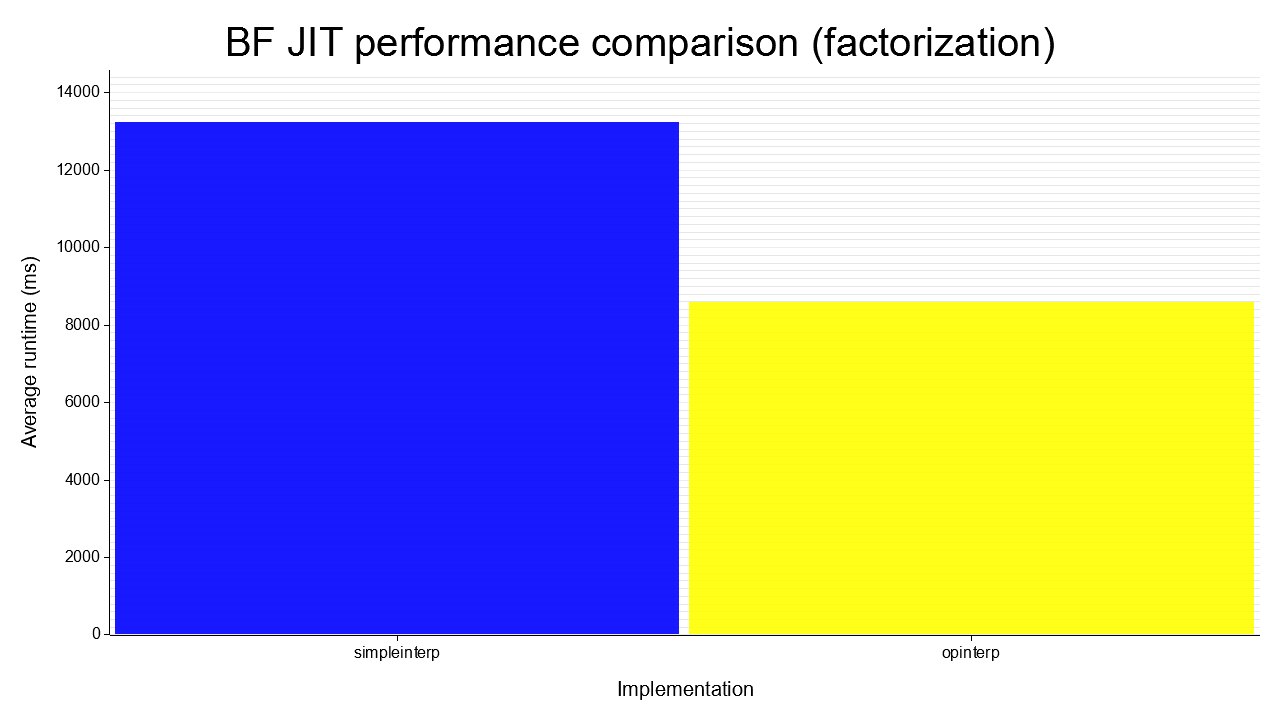
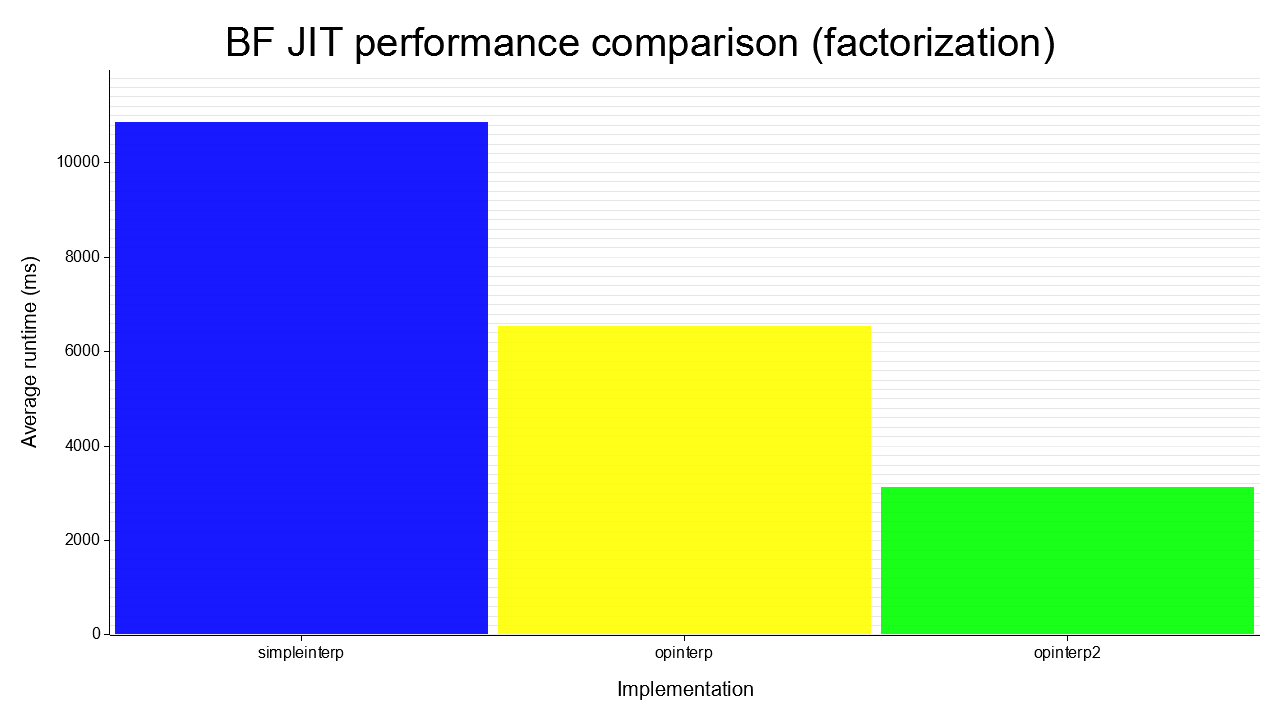
Implement opinterp2

diff --git a/vms/opinterp2/src/parser.rs b/vms/opinterp2/src/parser.rs
@@ -1,0 +1,176 @@
+use util::{BfError, BfResult};
+
+#[derive(Eq, PartialEq)]
+enum OpCode {
+    IncPtr,
+    DecPtr,
+    IncData,
+    DecData,
+    Read,
+    Write,
+    JumpIfZero,
+    JumpIfNotZero,
+}
+
+#[derive(Debug, Eq, PartialEq)]
+pub enum Instruction {
+    IncPtr { count: usize },
+    DecPtr { count: usize },
+    IncData { count: usize },
+    DecData { count: usize },
+    Read { count: usize },
+    Write { count: usize },
+    JumpIfZero { destination: usize },
+    JumpIfNotZero { destination: usize },
+}
+
+impl Instruction {
+    fn set_destination(&mut self, value: usize) {
+        match self {
+            Instruction::JumpIfZero { destination } => *destination = value,
+            Instruction::JumpIfNotZero { destination } => *destination = value,
+            _ => unreachable!(),
+        }
+    }
+}
+
+#[derive(Debug, Eq, PartialEq)]
+pub struct Program {
+    pub instructions: Vec<Instruction>,
+}
+
+pub fn parse(source_code: &str) -> BfResult<Program> {
+    let opcodes = translate_to_opcodes(source_code);
+
+    let mut instructions = vec![];
+
+    let mut pc = 0;
+    let mut open_bracket_stack = vec![];
+    while pc < opcodes.len() {
+        match &opcodes[pc] {
+            OpCode::JumpIfZero => {
+                open_bracket_stack.push(instructions.len());
+                instructions.push(Instruction::JumpIfZero { destination: 0 });
+                pc += 1;
+            }
+            OpCode::JumpIfNotZero => {
+                if let Some(open_bracket_offset) = open_bracket_stack.pop() {
+                    let len = instructions.len();
+                    instructions[open_bracket_offset].set_destination(len);
+                    instructions.push(Instruction::JumpIfNotZero {
+                        destination: open_bracket_offset,
+                    });
+
+                    pc += 1;
+                } else {
+                    return Err(BfError::Bf(format!("unmatched ']' at pc={pc}")));
+                }
+            }
+            opcode => {
+                let start = pc;
+                pc += 1;
+                while pc < opcodes.len() && opcodes[pc] == *opcode {
+                    pc += 1;
+                }
+
+                let count = pc - start;
+                let instruction = match opcode {
+                    OpCode::IncPtr => Instruction::IncPtr { count },
+                    OpCode::DecPtr => Instruction::DecPtr { count },
+                    OpCode::IncData => Instruction::IncData { count },
+                    OpCode::DecData => Instruction::DecData { count },
+                    OpCode::Read => Instruction::Read { count },
+                    OpCode::Write => Instruction::Write { count },
+                    _ => unreachable!(),
+                };
+
+                instructions.push(instruction);
+            }
+        }
+    }
+
+    if !open_bracket_stack.is_empty() {
+        return Err(BfError::Bf("unmatched '['".to_owned()));
+    }
+
+    Ok(Program { instructions })
+}
+
+fn translate_to_opcodes(source_code: &str) -> Vec<OpCode> {
+    let mut opcodes = vec![];
+
+    for c in source_code.chars() {
+        match c {
+            '>' => opcodes.push(OpCode::IncPtr),
+            '<' => opcodes.push(OpCode::DecPtr),
+            '+' => opcodes.push(OpCode::IncData),
+            '-' => opcodes.push(OpCode::DecData),
+            ',' => opcodes.push(OpCode::Read),
+            '.' => opcodes.push(OpCode::Write),
+            '[' => opcodes.push(OpCode::JumpIfZero),
+            ']' => opcodes.push(OpCode::JumpIfNotZero),
+            _ => (),
+        }
+    }
+
+    opcodes
+}
+
+#[cfg(test)]
+mod tests {
+    use {
+        super::{parse, Instruction, Program},
+        util::BfError,
+    };
+
+    #[test]
+    fn parse_test() {
+        let program = parse(">a<+bcde-,_.[]_1234567890か").unwrap();
+        assert_eq!(
+            program,
+            Program {
+                instructions: vec![
+                    Instruction::IncPtr { count: 1 },
+                    Instruction::DecPtr { count: 1 },
+                    Instruction::IncData { count: 1 },
+                    Instruction::DecData { count: 1 },
+                    Instruction::Read { count: 1 },
+                    Instruction::Write { count: 1 },
+                    Instruction::JumpIfZero { destination: 7 },
+                    Instruction::JumpIfNotZero { destination: 6 },
+                ],
+            }
+        );
+    }
+
+    #[test]
+    fn parse_count_test() {
+        let program = parse(">>[>>><<+---,,],..").unwrap();
+        assert_eq!(
+            program,
+            Program {
+                instructions: vec![
+                    Instruction::IncPtr { count: 2 },
+                    Instruction::JumpIfZero { destination: 7 },
+                    Instruction::IncPtr { count: 3 },
+                    Instruction::DecPtr { count: 2 },
+                    Instruction::IncData { count: 1 },
+                    Instruction::DecData { count: 3 },
+                    Instruction::Read { count: 2 },
+                    Instruction::JumpIfNotZero { destination: 1 },
+                    Instruction::Read { count: 1 },
+                    Instruction::Write { count: 2 },
+                ],
+            }
+        );
+    }
+
+    #[test]
+    fn parse_error_test() {
+        let err = parse("..[...").unwrap_err();
+        assert_eq!(err, BfError::Bf("unmatched '['".to_owned()));
+
+        let err = parse("..]...").unwrap_err();
+        assert_eq!(err, BfError::Bf("unmatched ']' at pc=2".to_owned()));
+    }
+}

diff --git a/vms/opinterp2/src/vm.rs b/vms/opinterp2/src/vm.rs
@@ -1,0 +1,100 @@
+use {
+    crate::parser::{Instruction, Program},
+    std::io::{Read, Write},
+    util::BfResult,
+};
+
+const MEMORY_SIZE: usize = 30000;
+
+pub fn run(program: Program, stdin: &mut dyn Read, stdout: &mut dyn Write) -> BfResult<()> {
+    let mut memory: [u8; MEMORY_SIZE] = [0; MEMORY_SIZE];
+    let mut pc = 0;
+    let mut data_pointer = 0;
+
+    while pc < program.instructions.len() {
+        match program.instructions[pc] {
+            Instruction::IncPtr { count } => data_pointer += count,
+            Instruction::DecPtr { count } => data_pointer -= count,
+            Instruction::IncData { count } => {
+                let mut val = memory[data_pointer];
+                for _ in 0..count {
+                    val = val.wrapping_add(1)
+                }
+                memory[data_pointer] = val;
+            }
+            Instruction::DecData { count } => {
+                let mut val = memory[data_pointer];
+                for _ in 0..count {
+                    val = val.wrapping_sub(1)
+                }
+                memory[data_pointer] = val;
+            }
+            Instruction::Read { count } => {
+                for _ in 0..count {
+                    memory[data_pointer] = read(stdin)?
+                }
+            }
+            Instruction::Write { count } => {
+                for _ in 0..count {
+                    write(stdout, memory[data_pointer])?
+                }
+            }
+            Instruction::JumpIfZero { destination } => {
+                pc = jump(
+                    true, /*eq_zero*/
+                    &memory,
+                    data_pointer,
+                    destination,
+                    pc,
+                )
+            }
+            Instruction::JumpIfNotZero { destination } => {
+                pc = jump(
+                    false, /*eq_zero*/
+                    &memory,
+                    data_pointer,
+                    destination,
+                    pc,
+                )
+            }
+        }
+
+        pc += 1;
+    }
+
+    Ok(())
+}
+
+fn read(stdin: &mut dyn Read) -> BfResult<u8> {
+    let mut c = [0; 1];
+    stdin.read_exact(&mut c)?;
+
+    Ok(c[0])
+}
+
+fn write(stdout: &mut dyn Write, byte: u8) -> BfResult<()> {
+    stdout.write_all(&[byte])?;
+    stdout.flush()?;
+
+    Ok(())
+}
+
+fn jump(
+    eq_zero: bool,
+    memory: &[u8; MEMORY_SIZE],
+    data_pointer: usize,
+    destination: usize,
+    pc: usize,
+) -> usize {
+    let cond = if eq_zero {
+        |a, b| a == b
+    } else {
+        |a, b| a != b
+    };
+
+    if cond(memory[data_pointer], 0) {
+        destination
+    } else {
+        pc
+    }
+}

diff --git a/bench/src/lib.rs b/bench/src/lib.rs
@@ -5,7 +5,7 @@ use {
         coord::ranged1d::{IntoSegmentedCoord, SegmentValue},
         drawing::IntoDrawingArea,
         series::Histogram,
-        style::{Color, BLUE, WHITE, YELLOW},
+        style::{Color, BLUE, GREEN, WHITE, YELLOW},
     },
     std::{fs, time::Instant},
     util::{BfError, RunFunction},
@@ -55,6 +55,7 @@ fn graph_results_for_file(
     let perf_millis = [
         ImplInfo::new("simpleinterp", &simpleinterp::run, source_code, input)?,
         ImplInfo::new("opinterp", &opinterp::run, source_code, input)?,
+        ImplInfo::new("opinterp2", &opinterp2::run, source_code, input)?,
     ];
 
     create_graph(title, short_title, perf_millis)?;
@@ -131,6 +132,7 @@ fn create_graph<const N: usize>(
             .style_func(|value, _millis| match **segmented_value_to_inner(value) {
                 "simpleinterp" => BLUE.mix(0.9).filled(),
                 "opinterp" => YELLOW.mix(0.9).filled(),
+                "opinterp2" => GREEN.mix(0.9).filled(),
                 _ => unreachable!(),
             })
             .data(perf_millis.iter().map(|x| (&x.name, x.millis))),

diff --git a/util/src/error.rs b/util/src/error.rs
@@ -3,12 +3,12 @@ use {
     std::{error::Error, fmt, io, num::TryFromIntError},
 };
 
-#[derive(Debug)]
+#[derive(Debug, Eq, PartialEq)]
 pub enum BfError {
     Bf(String),
     DrawingArea(String),
     TryFromInt(TryFromIntError),
-    Io(io::Error),
+    Io(String),
 }
 
 impl fmt::Display for BfError {
@@ -17,7 +17,7 @@ impl fmt::Display for BfError {
             Self::Bf(s) => write!(f, "{s}"),
             Self::DrawingArea(s) => write!(f, "{s}"),
             Self::TryFromInt(err) => write!(f, "{err}"),
-            Self::Io(err) => write!(f, "{err}"),
+            Self::Io(s) => write!(f, "{s}"),
         }
     }
 }
@@ -41,7 +41,7 @@ impl From<TryFromIntError> for BfError {
 
 impl From<io::Error> for BfError {
     fn from(err: io::Error) -> Self {
-        BfError::Io(err)
+        BfError::Io(format!("{err}"))
     }
 }
 

diff --git a/vms/opinterp2/src/lib.rs b/vms/opinterp2/src/lib.rs
@@ -1,0 +1,12 @@
+use {
+    std::io::{Read, Write},
+    util::BfResult,
+};
+
+mod parser;
+mod vm;
+
+pub fn run(source_code: &str, stdin: &mut dyn Read, stdout: &mut dyn Write) -> BfResult<()> {
+    let program = parser::parse(source_code)?;
+    vm::run(program, stdin, stdout)
+}

diff --git a/vms/opinterp2/src/main.rs b/vms/opinterp2/src/main.rs
@@ -1,0 +1,5 @@
+use util::{run_main, BfResult};
+
+fn main() -> BfResult<()> {
+    run_main(opinterp2::run)
+}
